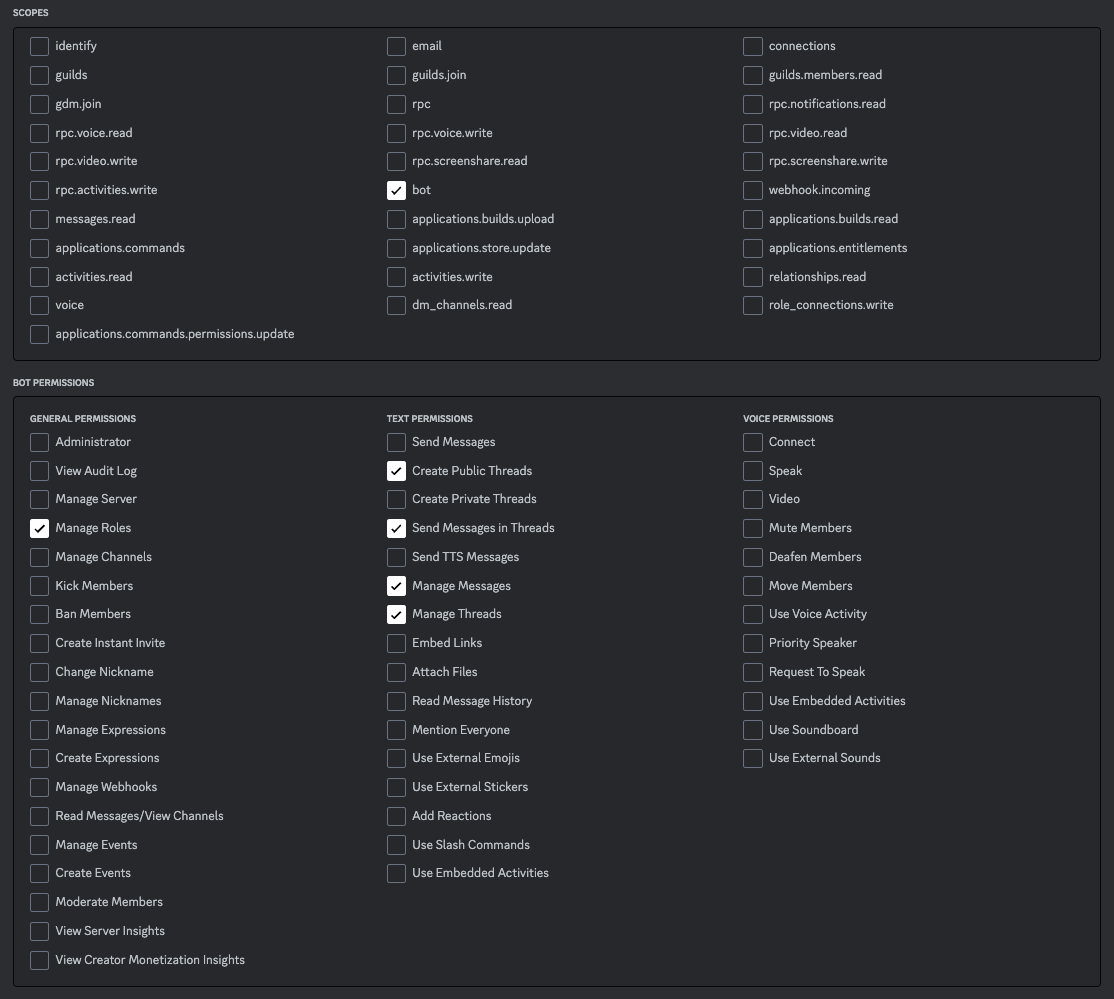
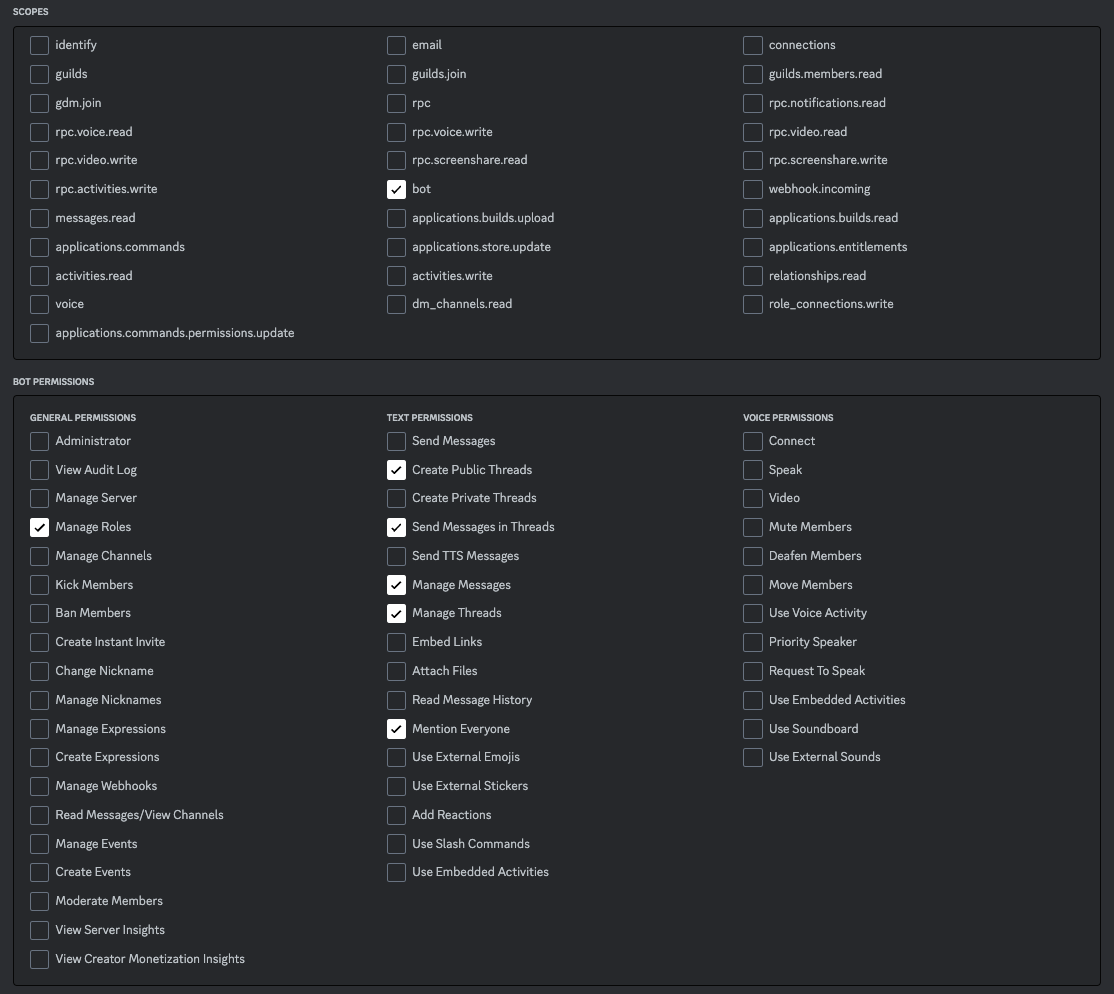
one more permission required.

diff --git a/README.md b/README.md
@@ -48,6 +48,8 @@ We encourage everyone to actively participate in these discussions, as your inpu
 
 - Manage Threads
 
+- Mention Everyone (This is required so that it can mention the notification role)
+
 ![](bot_permissions.png)
 
 NOTE: `Manage Roles` is only needed initially to create the [SYMBOL]-GOV role to notify members to vote. You can either create the role yourself or remove `Manage Roles` permission once the role is created to limit any attack surface. The created role has no inherent permission and is only used for tagging.
